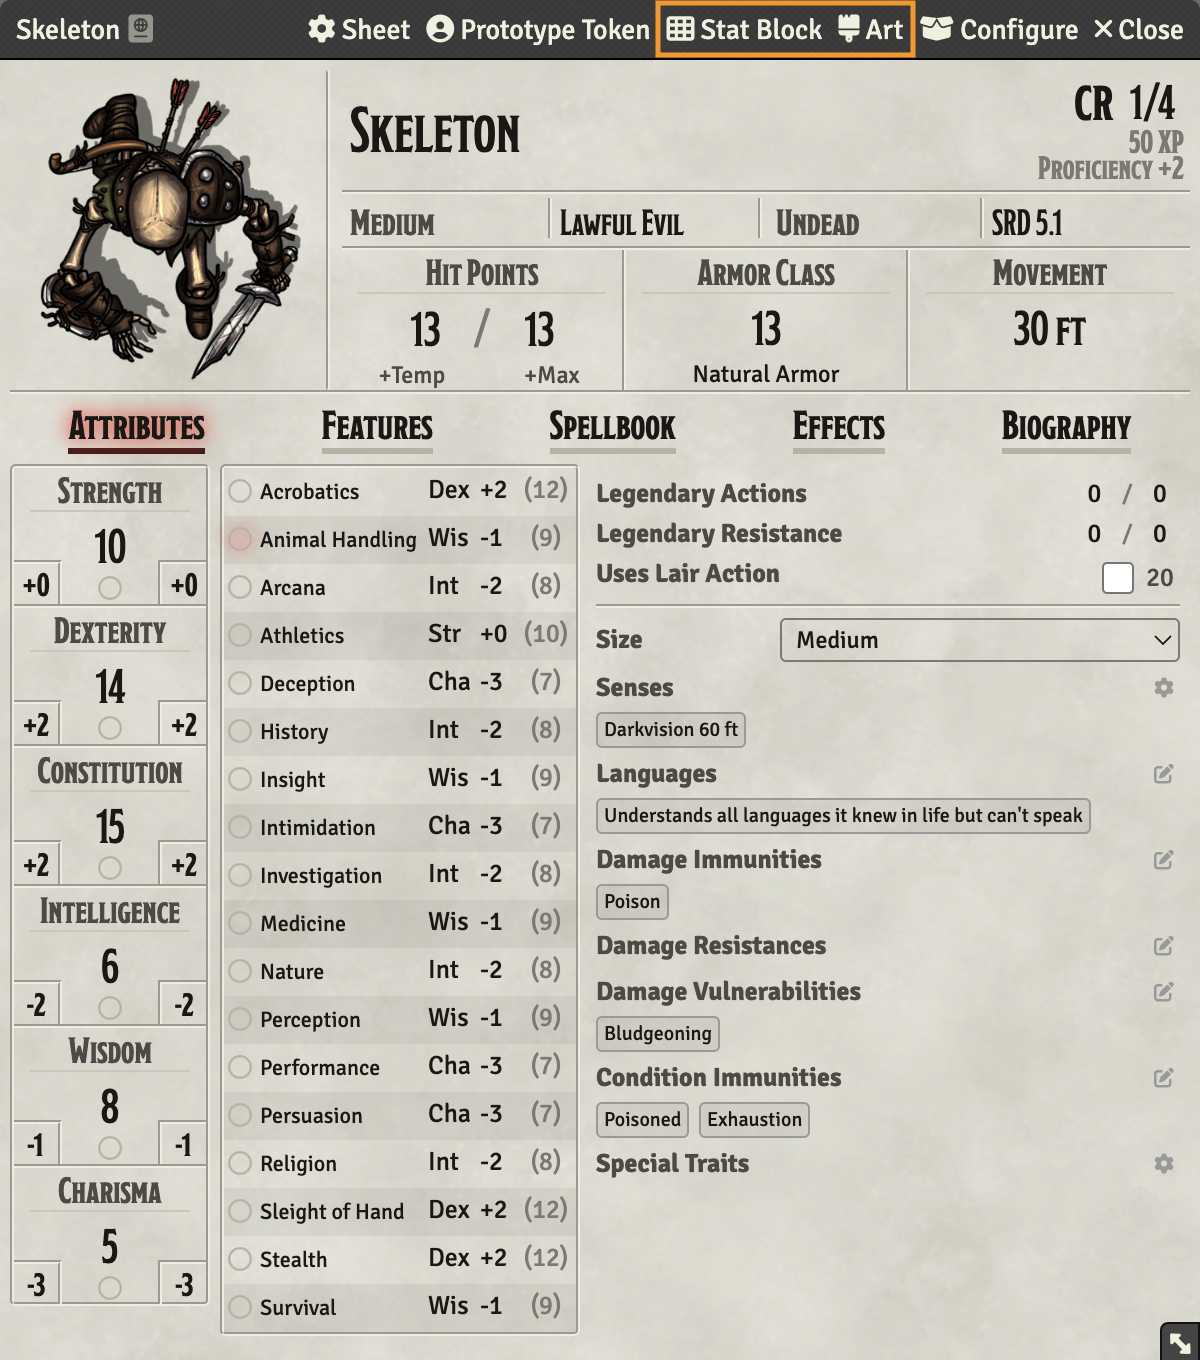
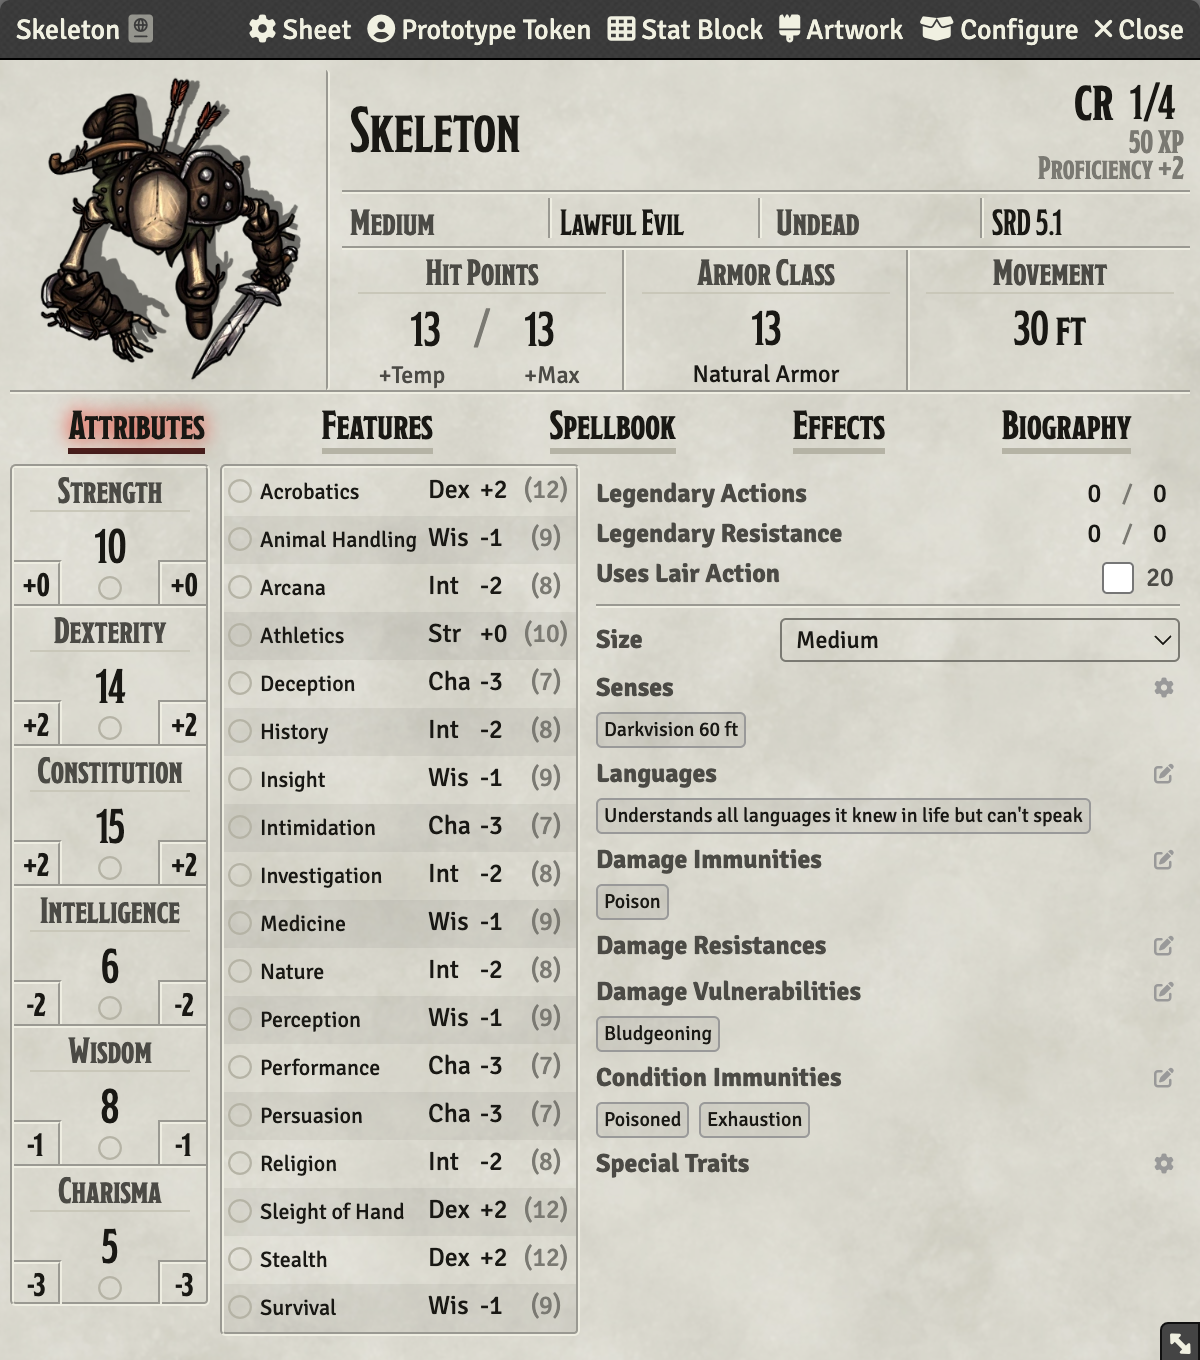
Implement support for NPC context menu entries.

Changed region(s): [[0.185, 0.0, 0.7708, 0.0618], [0.185, 0.3706, 0.2158, 0.4015]]

diff --git a/scripts/lib/lib.js b/scripts/lib/lib.js
@@ -1,4 +1,5 @@
 import { Constants } from "./Constants.js";
+import { getSetting } from "./settings.js";
 
 function log(message) {
   console.log(
@@ -7,24 +8,47 @@ function log(message) {
     "color:#bbbbbb"
   );
 }
+
 class KelsUtilities {
   constructor() {
-    this.Constants = Constants;
-    this.log = log;
+    return (async () => {
+      this.Constants = Constants;
+      this.log = log;
 
-    this.hooksTurnIntoItemPiles = new Map();
-    this.hooksShowMonsterArt = new Map();
-    this.hooksOpenMonsterStatblock = new Map();
+      this.monsterResources = await fetch(
+        Constants.pathJsonMonsterResources
+      ).then((response) => response.json());
+
+      this.hooksTurnIntoItemPiles = new Map();
+      this.hooksShowMonsterArtwork = new Map();
+      this.hooksOpenMonsterStatblock = new Map();
+
+      return this;
+    })();
   }
 
   isModuleActive(moduleName) {
     return Boolean(game.modules.get(moduleName)?.active);
   }
 
-  async monsterResources() {
-    return await fetch(Constants.pathJsonMonsterResources).then((response) =>
-      response.json()
-    );
+  monsterArtworkUrl(monsterName) {
+    if (!(monsterName in this.monsterResources)) {
+      log(`"${monsterName}" monster name was not found in monster resources!`);
+
+      return null;
+    }
+
+    return this.monsterResources[monsterName].image_url;
+  }
+
+  monsterStatblockUrl(monsterName) {
+    if (!(monsterName in this.monsterResources)) {
+      log(`"${monsterName}" monster name was not found in monster resources!`);
+
+      return null;
+    }
+
+    return this.monsterResources[monsterName].statblock_url;
   }
 
   tableResultToEquipmentQuality(tableResult) {
@@ -104,34 +128,30 @@ class KelsUtilities {
     return this.hooksTurnIntoItemPiles;
   }
 
-  async registerHooksShowMonsterArt() {
-    log('Registering "ShowMonsterArt" hooks...');
-
-    let monsterResources = await this.monsterResources();
+  async registerHooksShowMonsterArtwork() {
+    log('Registering "ShowMonsterArtwork" hooks...');
 
     let hookName = "getActorSheetHeaderButtons";
-    this.hooksShowMonsterArt.set(
+    this.hooksShowMonsterArtwork.set(
       hookName,
-      Hooks.on(hookName, async (actorSheet, buttons) => {
+      Hooks.on(hookName, (actorSheet, buttons) => {
         if (!game.user.isGM) {
           return;
         }
 
-        let monsterName = actorSheet.object.name;
-        if (!(monsterName in monsterResources)) {
-          log(
-            `"${monsterName}" monster name was not found in monster resources!`
-          );
+        const monsterName = actorSheet.object.name;
+        const monsterArtworkUrl = this.monsterArtworkUrl(monsterName);
+
+        if (monsterArtworkUrl == null) {
           return;
         }
-        let monsterArtUrl = monsterResources[monsterName].image_url;
 
         buttons.unshift({
-          label: "Art",
+          label: "Artwork",
           icon: "fa-solid fa-brush",
           class: "kels-utilities-show-monster-art",
           onclick: () => {
-            const imagePopout = new ImagePopout(monsterArtUrl, {
+            const imagePopout = new ImagePopout(monsterArtworkUrl, {
               title: monsterName,
             });
             imagePopout.render(true);
@@ -141,43 +161,74 @@ class KelsUtilities {
       })
     );
 
-    return this.hooksShowMonsterArt;
+    hookName = "getActorDirectoryEntryContext";
+    this.hooksShowMonsterArtwork.set(
+      hookName,
+      Hooks.on(hookName, async (html, entryOptions) => {
+        entryOptions.push({
+          name: `${Constants.moduleDisplayName}: Show Monster Artwork`,
+          icon: '<i class="fa-solid fa-brush"></i>',
+          callback: (li) => {
+            const actor = game.actors.get(li.data("documentId"));
+
+            const monsterName = actor.name;
+            const monsterArtworkUrl = this.monsterArtworkUrl(monsterName);
+
+            if (monsterArtworkUrl == null) {
+              return;
+            }
+
+            const imagePopout = new ImagePopout(monsterArtworkUrl, {
+              title: monsterName,
+            });
+            imagePopout.render(true);
+            imagePopout.shareImage();
+          },
+          condition: (li) => {
+            const actor = game.actors.get(li.data("documentId"));
+            return (
+              getSetting("enableShowMonsterArtwork") &&
+              game.user.isGM &&
+              actor.type == "npc"
+            );
+          },
+        });
+      })
+    );
+
+    return this.hooksShowMonsterArtwork;
   }
 
-  async unregisterHooksShowMonsterArt() {
-    log('Unregistering "ShowMonsterArt" hooks...');
+  async unregisterHooksShowMonsterArtwork() {
+    log('Unregistering "ShowMonsterArtwork" hooks...');
 
-    for (let [key, hook] of this.hooksShowMonsterArt.entries()) {
+    for (let [key, hook] of this.hooksShowMonsterArtwork.entries()) {
       log(`Unregistering ${key} with ${hook} id.`);
       Hooks.off(key, hook);
     }
 
-    this.hooksShowMonsterArt = new Map();
+    this.hooksShowMonsterArtwork = new Map();
 
-    return this.hooksShowMonsterArt;
+    return this.hooksShowMonsterArtwork;
   }
 
   async registerHooksOpenMonsterStatblock() {
     log('Registering "OpenMonsterStatblock" hooks...');
 
-    let monsterResources = await this.monsterResources();
-
     let hookName = "getActorSheetHeaderButtons";
     this.hooksOpenMonsterStatblock.set(
       hookName,
-      Hooks.on(hookName, async (actorSheet, buttons) => {
+      Hooks.on(hookName, (actorSheet, buttons) => {
         if (!game.user.isGM) {
           return;
         }
 
-        let monsterName = actorSheet.object.name;
-        if (!(monsterName in monsterResources)) {
-          log(
-            `"${monsterName}" monster name was not found in monster resources!`
-          );
+        const monsterName = actorSheet.object.name;
+        const monsterStatblockUrl = this.monsterStatblockUrl(monsterName);
+
+        if (monsterStatblockUrl == null) {
           return;
         }
-        let monsterStatblockUrl = monsterResources[monsterName].statblock_url;
 
         buttons.unshift({
           label: "Stat Block",
@@ -185,6 +236,37 @@ class KelsUtilities {
           class: "kels-utilities-open-monster-statblock",
           onclick: () => {
             window.open(monsterStatblockUrl);
+          },
+        });
+      })
+    );
+
+    hookName = "getActorDirectoryEntryContext";
+    this.hooksOpenMonsterStatblock.set(
+      hookName,
+      Hooks.on(hookName, async (html, entryOptions) => {
+        entryOptions.push({
+          name: `${Constants.moduleDisplayName}: Open Stat Block`,
+          icon: '<i class="fa fa-th"></i>',
+          callback: (li) => {
+            const actor = game.actors.get(li.data("documentId"));
+
+            const monsterName = actor.name;
+            const monsterStatblockUrl = this.monsterStatblockUrl(monsterName);
+
+            if (monsterStatblockUrl == null) {
+              return;
+            }
+
+            window.open(monsterStatblockUrl);
+          },
+          condition: (li) => {
+            const actor = game.actors.get(li.data("documentId"));
+            return (
+              getSetting("enableShowMonsterArtwork") &&
+              game.user.isGM &&
+              actor.type == "npc"
+            );
           },
         });
       })

diff --git a/scripts/lib/settings.js b/scripts/lib/settings.js
@@ -42,31 +42,31 @@ function registerSettings() {
     );
   }
 
-  game.settings.register(Constants.moduleName, "enableShowMonsterArt", {
-    name: "Enable the \"Show Monster Art\" action",
-    hint: "When enabled, this adds a new action to the \"NPC\" sheets that allows showing to the players available monster art.",
+  game.settings.register(Constants.moduleName, "enableShowMonsterArtwork", {
+    name: 'Enable the "Show Monster Artwork" action',
+    hint: 'When enabled, this adds a new action to the "NPC" sheets that allows showing to the players available monster artwork.',
     scope: "world",
     config: true,
     default: true,
     type: Boolean,
     onChange: async (value) => {
-      if (game.kelsUtilities.hooksShowMonsterArt.size == 0) {
-        game.kelsUtilities.registerHooksShowMonsterArt();
+      if (getSetting("enableShowMonsterArtwork")) {
+        game.kelsUtilities.registerHooksShowMonsterArtwork();
       } else {
-        game.kelsUtilities.unregisterHooksShowMonsterArt();
+        game.kelsUtilities.unregisterHooksShowMonsterArtwork();
       }
     },
   });
 
   game.settings.register(Constants.moduleName, "enableOpenMonsterStatblock", {
-    name: "Enable the \"Open Monster Art\" action",
-    hint: "When enabled, this adds a new action to the \"NPC\" sheets that allows opening the available monster stat block in a browser.",
+    name: 'Enable the "Open Monster Art" action',
+    hint: 'When enabled, this adds a new action to the "NPC" sheets that allows opening the available monster stat block in a browser.',
     scope: "world",
     config: true,
     default: true,
     type: Boolean,
     onChange: async (value) => {
-      if (game.kelsUtilities.hooksOpenMonsterStatblock.size == 0) {
+      if (getSetting("enableOpenMonsterStatblock")) {
         game.kelsUtilities.registerHooksOpenMonsterStatblock();
       } else {
         game.kelsUtilities.unregisterHooksOpenMonsterStatblock();

diff --git a/scripts/module.js b/scripts/module.js
@@ -6,31 +6,22 @@ Hooks.once("init", async function () {
   log("Initialising module...");
   registerSettings();
 
-  log("Updating constants...");
-  Constants.rootResources = await FilePicker.browse(
-    "user",
-    `${Constants.path}/resources/`
-  );
-  Constants.pathJsonMonsterResources = Constants.rootResources.files.find(
-    (files) => files.includes("monster_resources.json")
-  );
-});
-
-Hooks.once("ready", async function () {
-  game.kelsUtilities = new KelsUtilities();
+  game.kelsUtilities = await new KelsUtilities();
 
   if (getSetting("enableEquipmentQualityIntegration")) {
     game.kelsUtilities.registerHooksTurnIntoItemPiles();
   }
 
-  if (getSetting("enableShowMonsterArt")) {
-    game.kelsUtilities.registerHooksShowMonsterArt();
+  if (getSetting("enableShowMonsterArtwork")) {
+    game.kelsUtilities.registerHooksShowMonsterArtwork();
   }
 
   if (getSetting("enableOpenMonsterStatblock")) {
     game.kelsUtilities.registerHooksOpenMonsterStatblock();
   }
+});
 
+Hooks.once("ready", async function () {
   log("Module is ready!");
 });
 
@@ -45,9 +36,9 @@ Hooks.on("renderSettingsConfig", (app, html, data) => {
     );
   $("<div>")
     .addClass("form-group group-header")
-    .html("NPC Sheet Actions")
+    .html("NPC Actions")
     .insertBefore(
-      $(`[name="${Constants.moduleName}.enableShowMonsterArt"]`).parents(
+      $(`[name="${Constants.moduleName}.enableShowMonsterArtwork"]`).parents(
         "div.form-group:first"
       )
     );

diff --git a/scripts/lib/constants.js b/scripts/lib/constants.js
@@ -1,5 +1,6 @@
 const Constants = {
   moduleName: "kels-utilities",
+  moduleDisplayName: "Kel's Utilities",
   path: undefined,
   packs: {
     rollTables: "kels-utilities-roll-tables",
@@ -42,6 +43,9 @@ const Constants = {
     },
   ],
 };
-Constants.path = `modules/${Constants.moduleName}/`;
+
+Constants.path = `modules/${Constants.moduleName}`;
+Constants.rootResources = `${Constants.path}/resources`;
+Constants.pathJsonMonsterResources = `${Constants.rootResources}/monster_resources.json`;
 
 export { Constants };

diff --git a/README.md b/README.md
@@ -27,7 +27,11 @@ This module implements support for equipment (item) quality to [Item Piles](http
 
 ## Monster Art
 
-This module adds a new action to the *NPC* sheets that allows showing to the players available monsters art or opening their stat blocks in the browser.
+This module adds new actions and context menu entries to the *NPC* sheets that allows showing to the players available monsters art or opening their stat blocks in the browser.
+
+![NPC Sheet Actions](images/npc-sheet-actions.png)
+
+![NPC Context Menu Entries](images/npc-context-menu-entries.png)
 
 The current resources data is sourced from the following locations:
 
